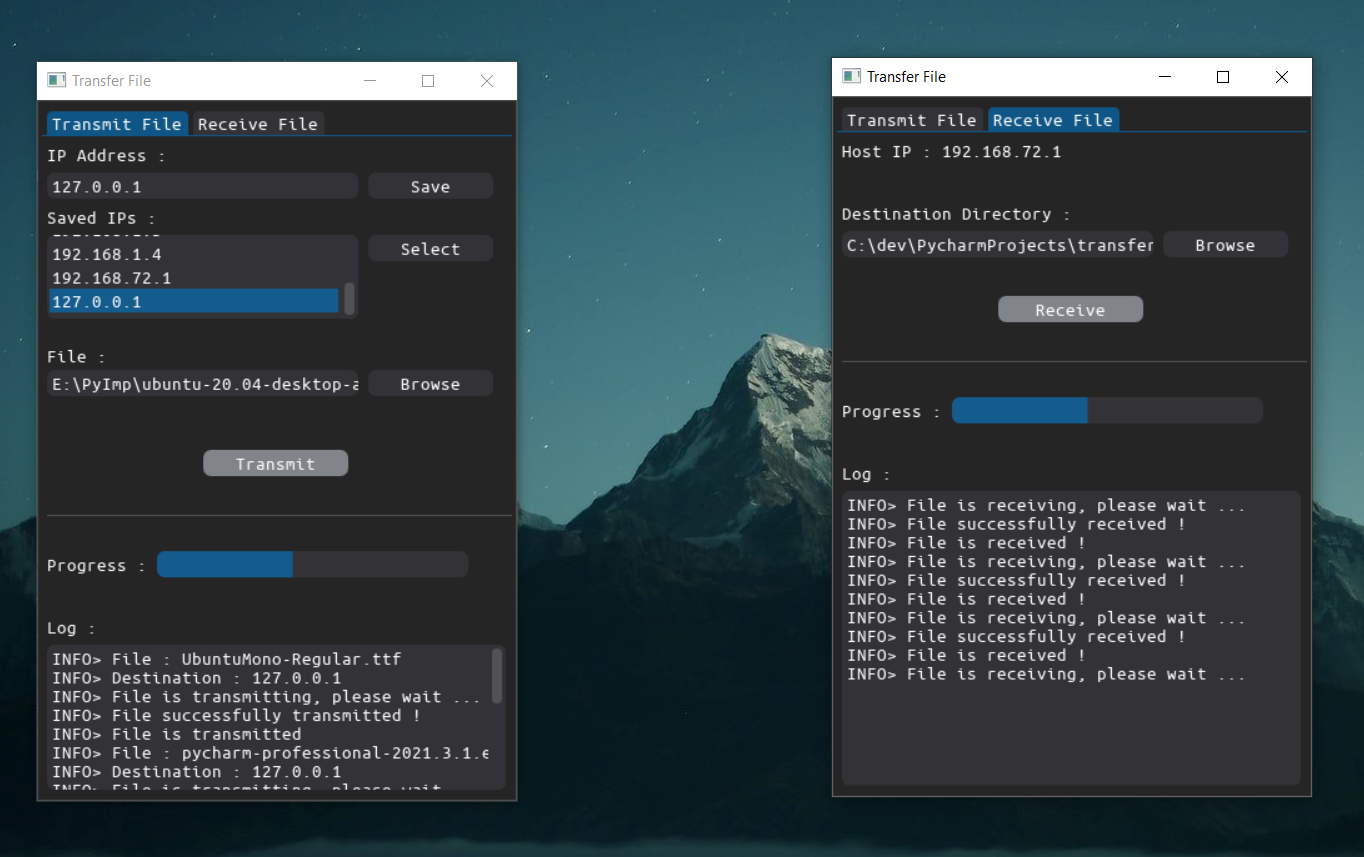
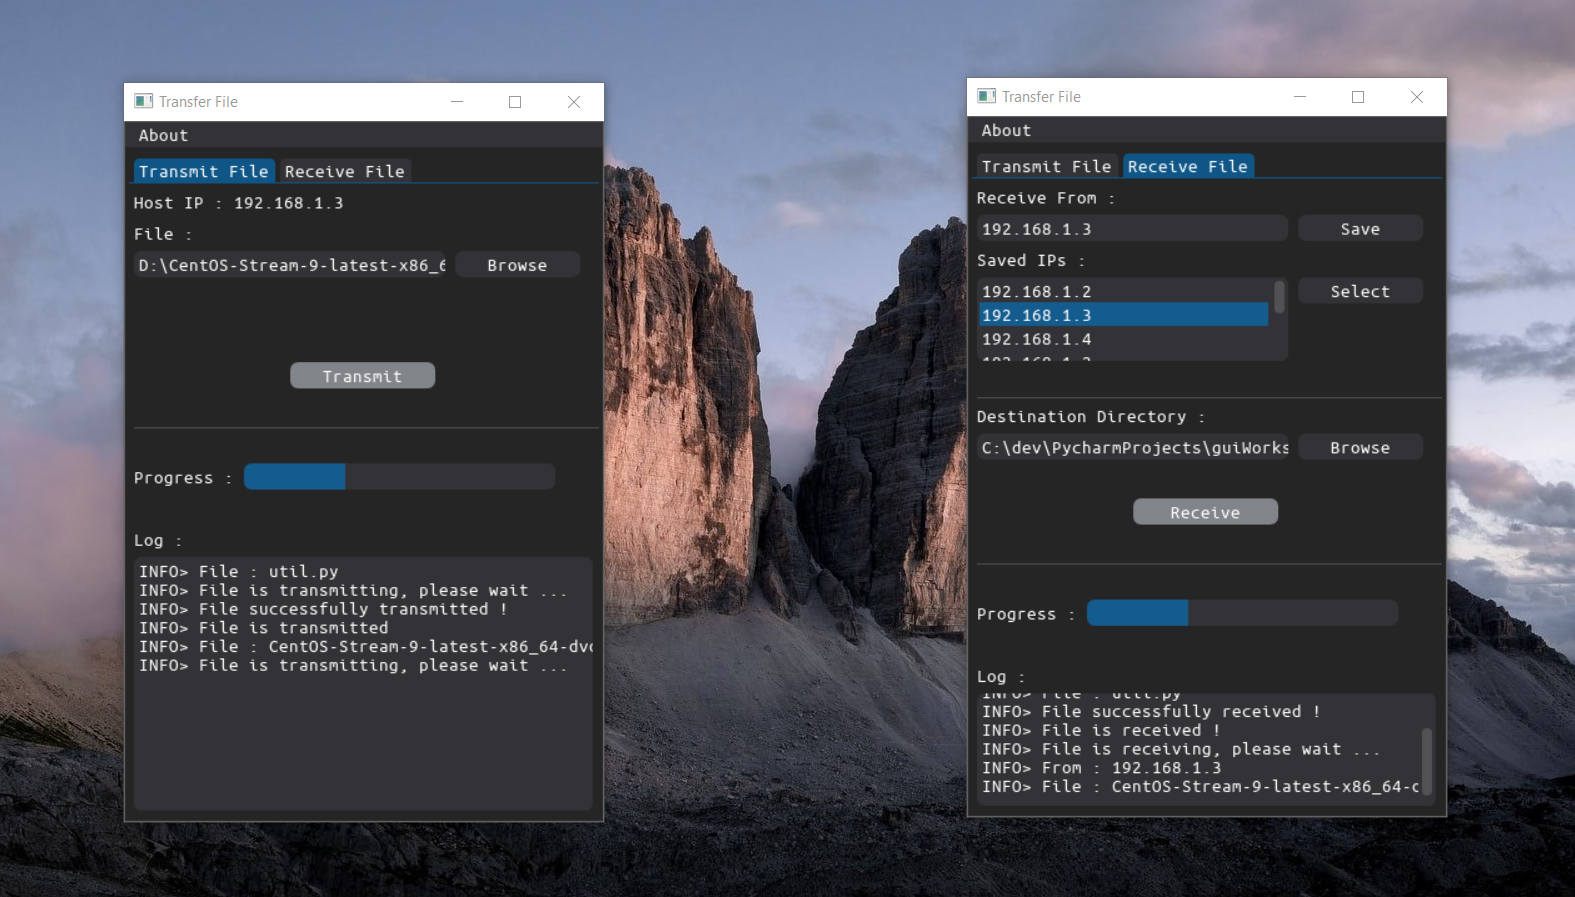
Bug fixed

diff --git a/app.py b/app.py
@@ -13,21 +13,9 @@ with dpg.window(tag="main_window"):
     with dpg.tab_bar():
         # Transmit File tab context
         with dpg.tab(label="Transmit File"):
-            dpg.add_text(default_value="IP Address :")
+            dpg.add_text(default_value=f"Host IP : {get_host_ip()}")
 
-            # Set horizontal layout of input text and button
-            with dpg.group(horizontal=True):
-                ip_text = dpg.add_input_text(tag="ip_text", scientific=True, hint="Enter destination IP Address")
-                save_button = dpg.add_button(label="Save", width=100, callback=save_button_callback)
-
-            dpg.add_text(default_value="Saved IPs :")
-
-            # Set horizontal layout of list box and button
-            with dpg.group(horizontal=True):
-                ip_list_box = dpg.add_listbox(tag="ip_list_box")
-                select_button = dpg.add_button(label="Select", width=100, callback=select_button_callback)
-
-            dpg.add_text(default_value="\nFile :")
+            dpg.add_text(default_value="File :")
 
             # Set horizontal layout of input text and button
             with dpg.group(horizontal=True):
@@ -35,7 +23,7 @@ with dpg.window(tag="main_window"):
                 browse_button = dpg.add_button(label="Browse", width=100, callback=browse_button_callback)
 
             dpg.add_text(default_value="\n\n")
-
+            dpg.add_text(default_value="\n")
             # Make responsive the button
             # Set grid layout to locate the button
             with dpg.table(header_row=False):
@@ -64,8 +52,22 @@ with dpg.window(tag="main_window"):
 
         # Receive File tab context
         with dpg.tab(label="Receive File"):
-            dpg.add_text(default_value=f"Host IP : {get_host_ip()}")
+            dpg.add_text(default_value="Receive From :")
+
+            # Set horizontal layout of input text and button
+            with dpg.group(horizontal=True):
+                ip_text = dpg.add_input_text(tag="ip_text", scientific=True, hint="Enter transmitter IP Address")
+                save_button = dpg.add_button(label="Save", width=100, callback=save_button_callback)
+
+            dpg.add_text(default_value="Saved IPs :")
+
+            # Set horizontal layout of list box and button
+            with dpg.group(horizontal=True):
+                ip_list_box = dpg.add_listbox(tag="ip_list_box")
+                select_button = dpg.add_button(label="Select", width=100, callback=select_button_callback)
+
             dpg.add_text(default_value="\n")
+            dpg.add_separator()
             dpg.add_text(default_value="Destination Directory :")
 
             with dpg.group(horizontal=True):
@@ -121,7 +123,7 @@ with dpg.window(label="Reminder", modal=True, show=False, id="modal_id"):
 
 with dpg.window(label="About", modal=True, show=False, id="modal_about", width=380):
     dpg.add_text("Version : v0.1")
-    dpg.add_text("Author : dgkngzlr")
+    dpg.add_text("Developer: dgkngzlr")
     dpg.add_separator()
 
     with dpg.table(header_row=False):

diff --git a/util.py b/util.py
@@ -46,18 +46,18 @@ class Logger:
 class Sender:
 
     @classmethod
-    def send_msg(cls, msg, dest_ip):
+    def send_msg(cls, msg, ip="127.0.0.1"):
         with socket.socket(socket.AF_INET, socket.SOCK_STREAM) as s:
             s.settimeout(60)
 
-            s.bind((dest_ip, 5506))
+            s.bind((ip, 5506))
             s.listen()
 
             conn, addr = s.accept()
             conn.send(msg.encode())
 
     @classmethod
-    def send_file(cls, file_path, dest_ip=""):
+    def send_file(cls, file_path, ip="127.0.0.1"):
         file_name: str
         file_size = os.path.getsize(file_path)
 
@@ -66,19 +66,17 @@ class Sender:
         else:
             file_name = file_path.split("/")[-1]
 
-        Sender.send_msg(file_name, dest_ip=dest_ip)
-        Sender.send_msg(f"{file_size}", dest_ip=dest_ip)
-
-        sent_size = 0
+        Sender.send_msg(file_name, ip=ip)
+        Sender.send_msg(f"{file_size}", ip=ip)
 
         with socket.socket(socket.AF_INET, socket.SOCK_STREAM) as s:
             s.settimeout(60)
 
-            s.bind((dest_ip, 5506))
+            s.bind((ip, 5506))
             s.listen()
 
             conn, addr = s.accept()
-
+            sent_size = 0
             dpg.configure_item('pb', default_value=sent_size / file_size)
             with open(file_path, "rb") as f:
                 while sent_size < file_size:
@@ -94,13 +92,13 @@ class Sender:
 class Receiver:
 
     @classmethod
-    def receive_msg(cls) -> str:
+    def receive_msg(cls, from_="127.0.0.1") -> str:
         flag = True
         with socket.socket(socket.AF_INET, socket.SOCK_STREAM) as s:
 
             while flag:
                 try:
-                    s.connect(("127.0.0.1", 5506))
+                    s.connect((from_, 5506))
                     flag = False
                 except Exception as e:
                     pass
@@ -110,7 +108,7 @@ class Receiver:
         return msg.decode("utf-8")
 
     @classmethod
-    def receive_file(cls, dest_direct):
+    def receive_file(cls, dest_direct, from_="127.0.0.1"):
 
         file_name = Receiver.receive_msg()
         file_size = int(Receiver.receive_msg())
@@ -127,7 +125,7 @@ class Receiver:
 
             while flag:
                 try:
-                    s.connect(("127.0.0.1", 5506))
+                    s.connect((from_, 5506))
                     flag = False
                 except Exception as e:
                     pass

diff --git a/callbacks.py b/callbacks.py
@@ -53,12 +53,11 @@ def about_callback(sender, app_data, user_data):
 # Transmit operation here
 def continue_transmitting_callback(sender, app_data, user_data):
     dpg.configure_item("modal_id", show=False)
-    if FILE_NAME.strip() != "" and dpg.get_value('ip_text').strip() != "":
+    if FILE_NAME.strip() != "":
         Logger.write("transmitter_log", f"File : {FILE_NAME.strip()}")
-        Logger.write("transmitter_log", f"Destination : {dpg.get_value('ip_text').strip()}")
         Logger.write("transmitter_log", "File is transmitting, please wait ...")
         dpg.configure_item("transmit_button", enabled=False)
-        Sender.send_file(file_path=FILE_PATH, dest_ip=dpg.get_value("ip_text").strip())
+        Sender.send_file(file_path=FILE_PATH, ip="0.0.0.0")
         Logger.write("transmitter_log", "File is transmitted")
     else:
         Logger.write("transmitter_log", "Fill in the fields above !", level="error")
@@ -66,10 +65,11 @@ def continue_transmitting_callback(sender, app_data, user_data):
 
 # Receive operation here
 def receive_button_callback(sender, app_data, user_data):
-    if dpg.get_value("destination_text") != "":
+    if dpg.get_value("destination_text") != "" and dpg.get_value('ip_text').strip() != "":
         Logger.write("receiver_log", "File is receiving, please wait ...")
+        Logger.write("receiver_log", f"From : {dpg.get_value('ip_text').strip()}")
         dpg.configure_item("receive_button", enabled=False)
-        Receiver.receive_file(dest_direct=dpg.get_value("destination_text"))
+        Receiver.receive_file(dest_direct=dpg.get_value("destination_text"), from_=dpg.get_value("ip_text").strip())
         Logger.write("receiver_log", "File is received !")
     else:
         Logger.write("receiver_log", "Fill in the fields above !", level="error")
